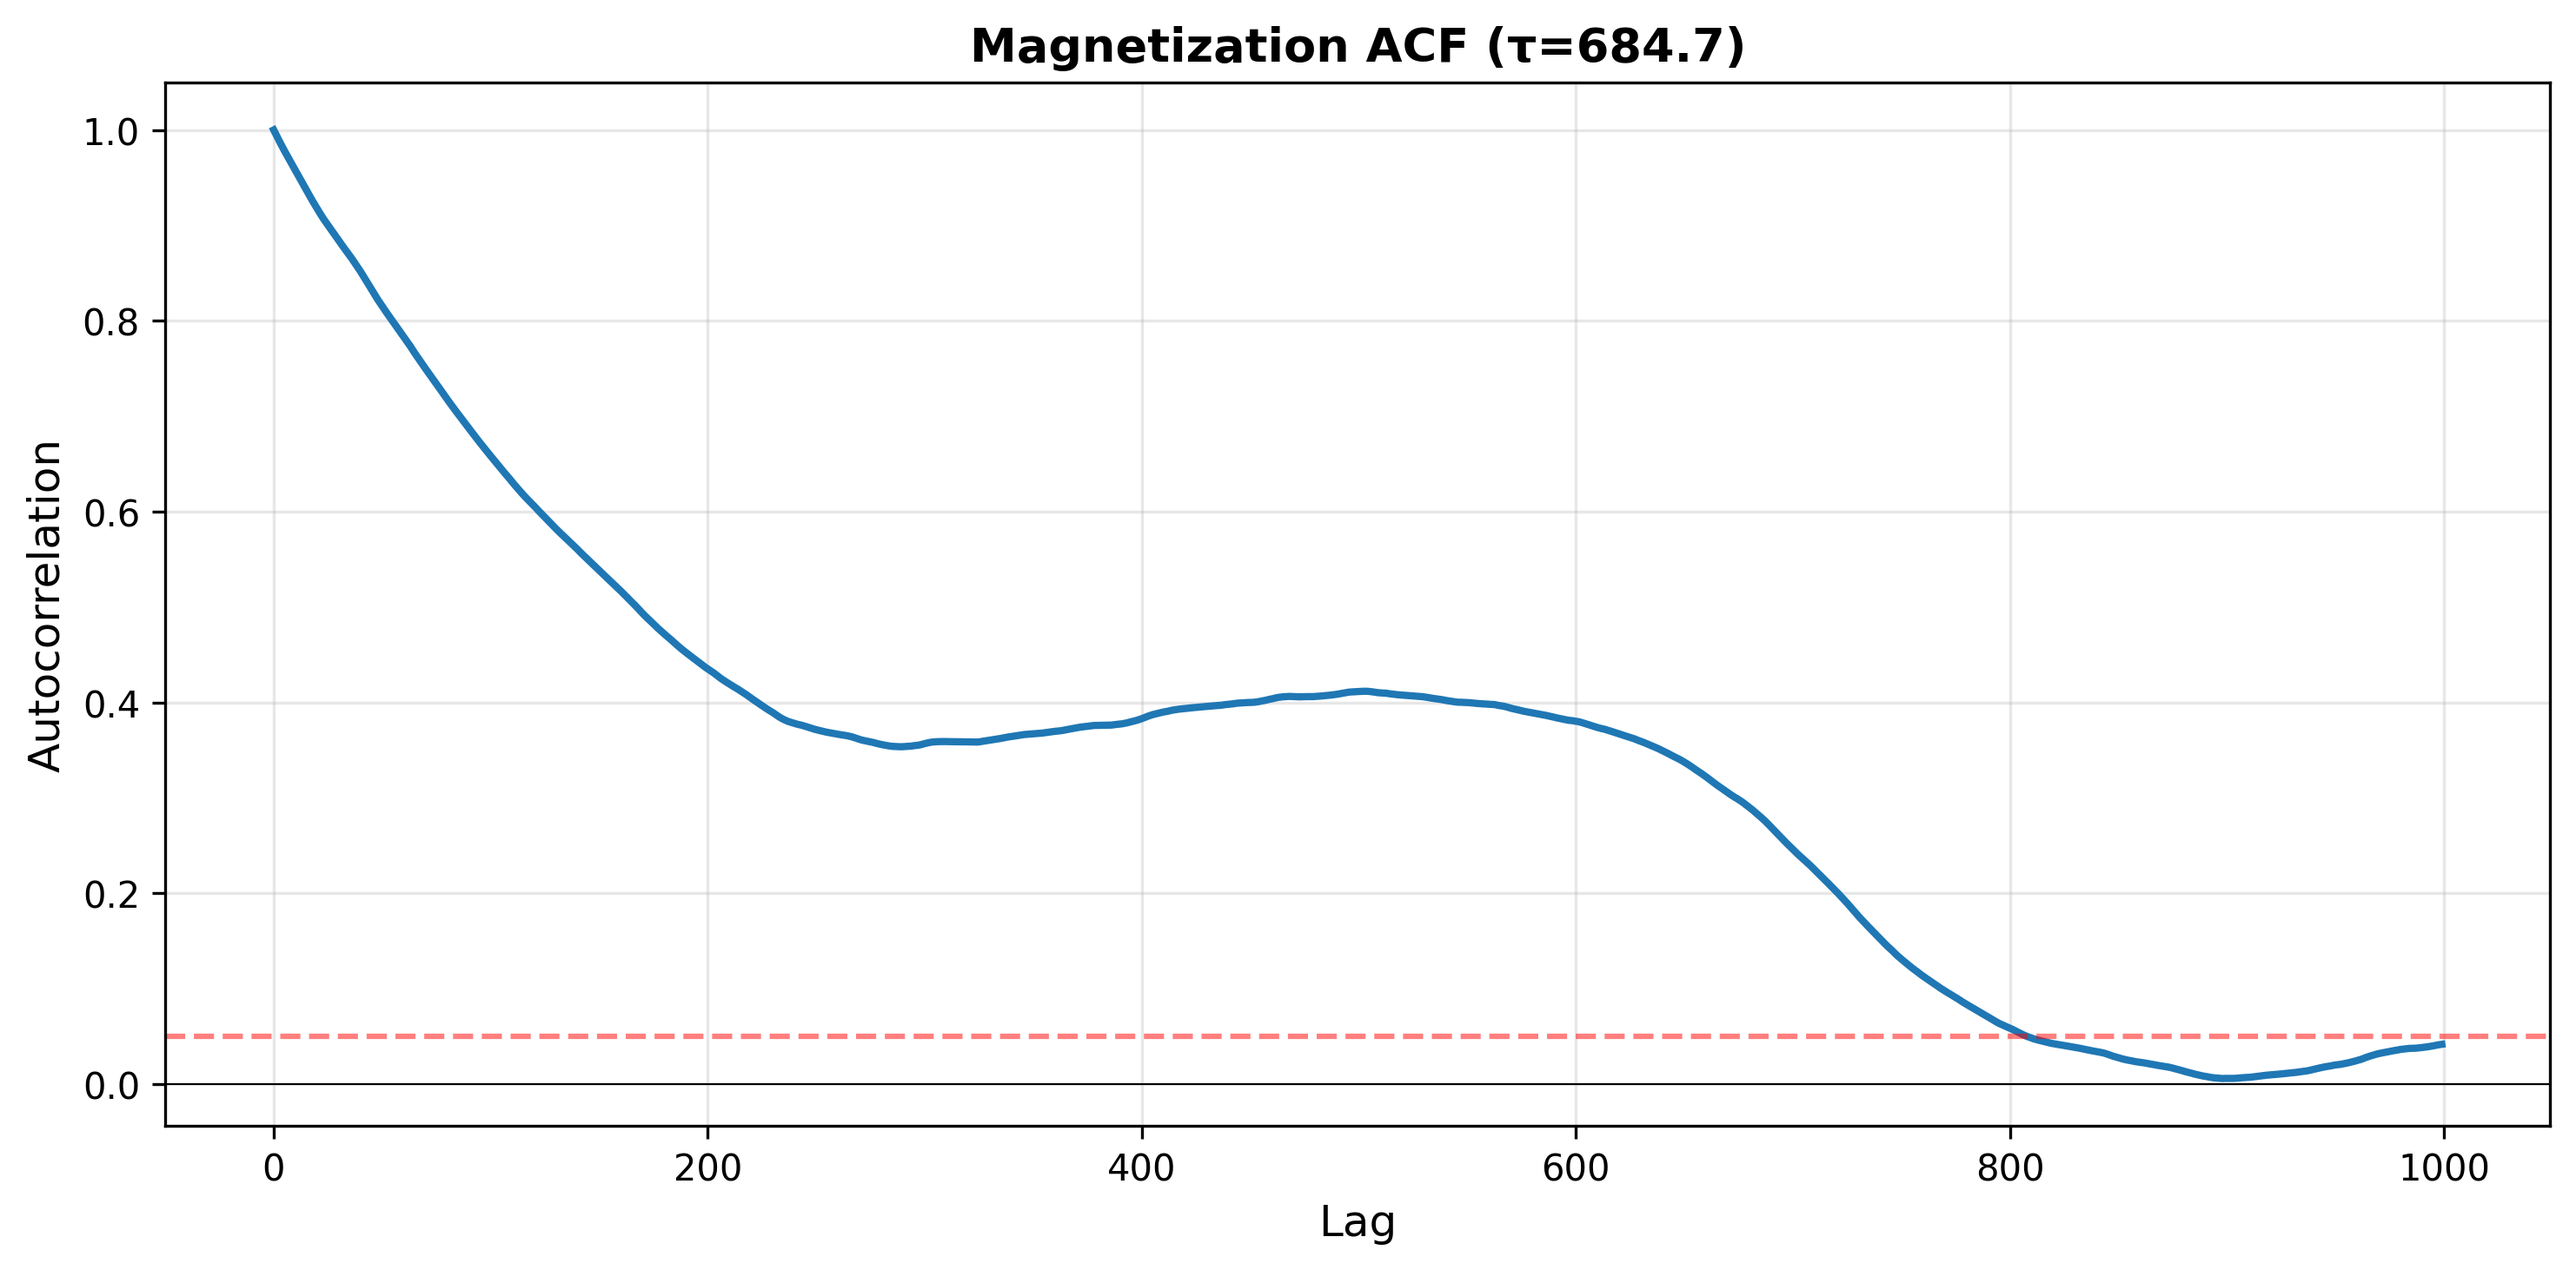
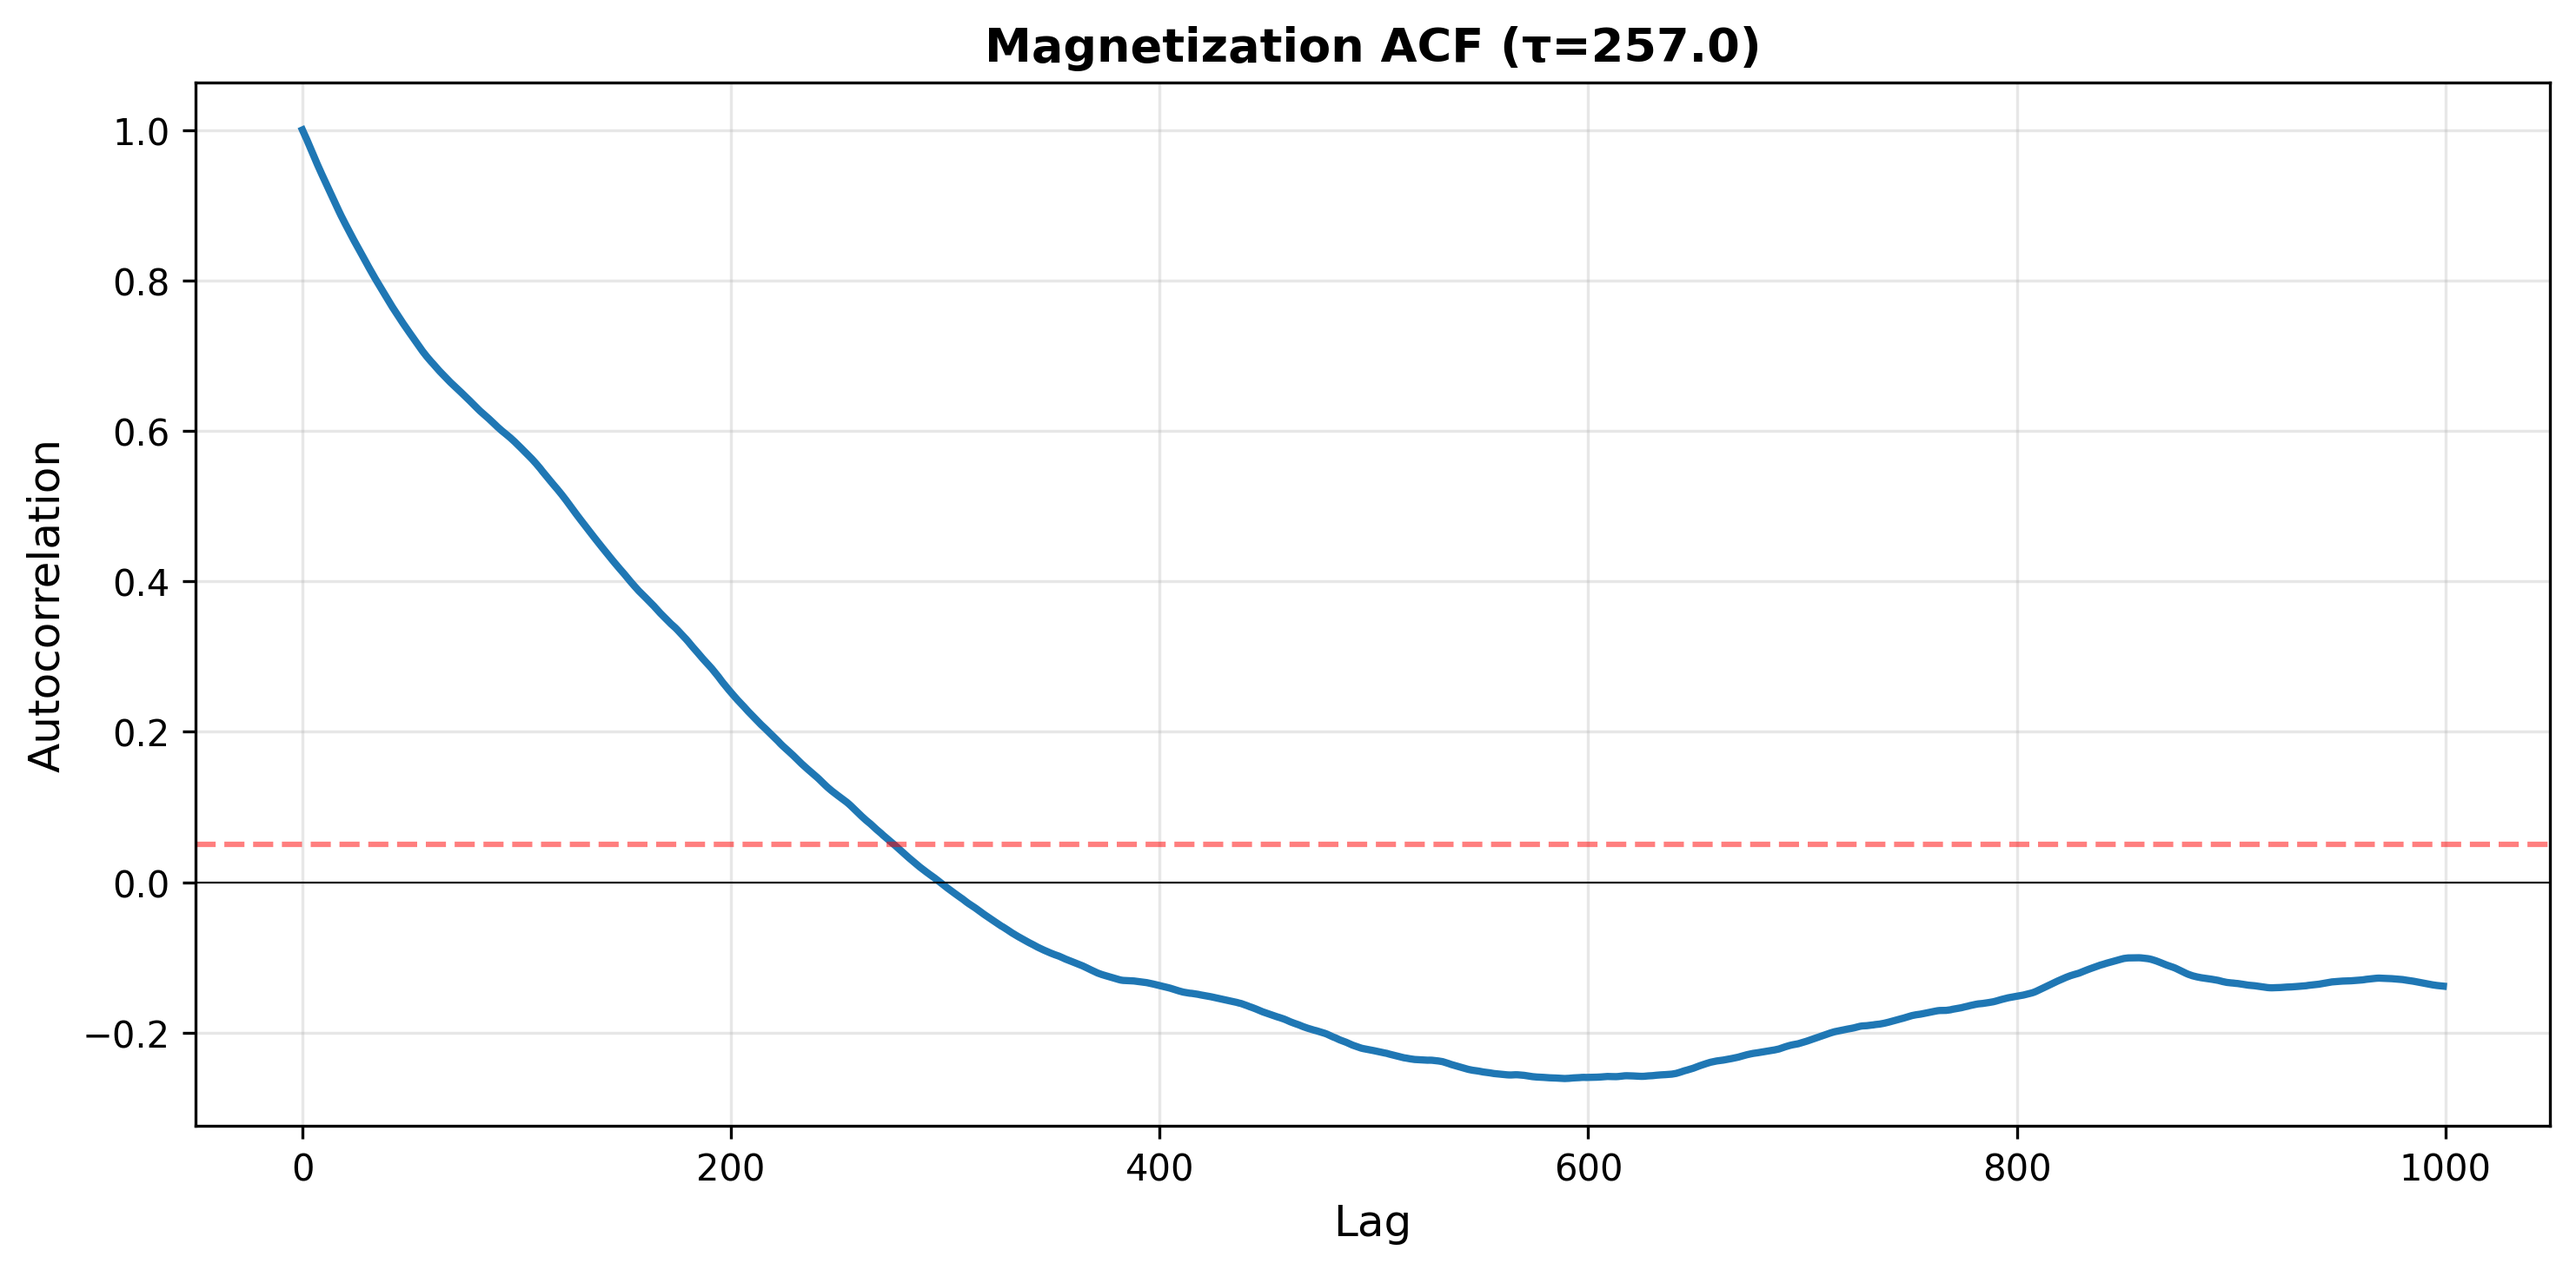
side by side plots for comparison

diff --git a/convergence.py b/convergence.py
@@ -6,6 +6,11 @@ import numpy as np
 import matplotlib.pyplot as plt
 from Ising import *
 
+from external import *
+
+import emcee as emcee_lib
+
+
 def gelman_rubin(chains):
     """
     returns R_hat(Gelman-Rubin statistic)"""
@@ -158,13 +163,23 @@ def spin_up_probability(chains, spin_num = 0):
     plt.ylabel("Net spin over all chains")
     plt.title(f"Spin number {spin_num}")
 
-
 N = 10 
 beta = 0.3
 J = 1.0
 h = 1.0
 iterations = 20000
 burn_frac = 0.3
+
+sampler_emcee = run_emcee(N_walkers=20,
+    N_grid=N,
+    J=J,
+    h=h,
+    beta=beta,
+    seed=200,
+    steps=iterations
+)
+
+
 
 print("Running 4 chains for Gelman-Rubin test...")
 chains_list = []
@@ -184,6 +199,8 @@ for i in range(4):
     mags = np.array([magnetization(g) for g in chain])
     mag_chains.append(mags)
 
+
+
 # Gelman-Rubin test
 mag_chains_array = np.array(mag_chains)
 R_hat = gelman_rubin(mag_chains_array)
@@ -193,9 +210,9 @@ print(f"CONVERGENCE RESULTS")
 print(f"{'='*60}")
 print(f"Gelman-Rubin R-hat: {R_hat:.4f}")
 if R_hat < 1.1:
-    print("✓ CONVERGED (R-hat < 1.1)")
+    print("CONVERGED (R-hat < 1.1)")
 else:
-    print("✗ NOT CONVERGED (R-hat >= 1.1)")
+    print("NOT CONVERGED (R-hat >= 1.1)")
 
 # Autocorrelation analysis
 tau, rho = direct_autocorr(mag_chains[0])
@@ -205,11 +222,55 @@ print(f"\nAutocorrelation time (τ): {tau:.2f}")
 print(f"Effective Sample Size: {ess:.0f} / {len(mag_chains[0])}")
 print(f"{'='*60}\n")
 
+
+chain_emcee = np.sign(sampler_emcee.get_chain())
+n_steps, n_walkers, n_spins = chain_emcee.shape
+
+print(f"Chain shape: {chain_emcee.shape}")
+
+# Extract magnetization for each walker
+mag_chains_emcee = []
+for walker_idx in range(n_walkers):
+    mags = []
+    for step in range(n_steps):
+        grid = list_to_grid(chain_emcee[step, walker_idx, :])
+        mags.append(magnetization(grid))
+    mag_chains_emcee.append(np.array(mags))
+
+mag_chains_emcee = np.array(mag_chains_emcee)
+
+# Gelman-Rubin test for emcee
+R_hat_emcee = gelman_rubin(mag_chains_emcee)
+
+print(f"\nGelman-Rubin R-hat (emcee): {R_hat_emcee:.4f}")
+if R_hat_emcee < 1.1:
+    print("CONVERGED (R-hat < 1.1)")
+else:
+    print("NOT CONVERGED (R-hat >= 1.1)")
+
+# Autocorrelation analysis for emcee (using first walker)
+
+tau_emcee, rho_emcee = direct_autocorr(mag_chains_emcee[0])
+ess_emcee = len(mag_chains_emcee[0]) / tau_emcee
+
+print(f"\nAutocorrelation time (τ): {tau_emcee:.2f}")
+print(f"Effective Sample Size: {ess_emcee:.0f} / {len(mag_chains_emcee[0])}")
+
+# emcee's built-in autocorrelation
+try:
+    tau_emcee_builtin = emcee_lib.autocorr.integrated_time(chain_emcee, quiet=True)
+    print(f"emcee built-in τ (avg): {np.mean(tau_emcee_builtin):.2f}")
+    print(f"emcee built-in τ (range): [{np.min(tau_emcee_builtin):.2f}, {np.max(tau_emcee_builtin):.2f}]")
+except Exception as e:
+    print(f"emcee built-in autocorr failed: {e}")
+
+"""
 # Plot traces
 chains_dict = {'Magnetization': mag_chains}
 fig = plot_trace(chains_dict, burn_in=int(iterations*burn_frac))
 plt.savefig('convergence_traces.png', dpi=300, bbox_inches='tight')
 print("Saved: convergence_traces.png")
+
 
 # Plot ACF
 plt.figure(figsize=(10, 5))
@@ -224,5 +285,72 @@ plt.grid(True, alpha=0.3)
 plt.tight_layout()
 plt.savefig('acf_plot.png', dpi=300, bbox_inches='tight')
 print("Saved: acf_plot.png")
+"""
+print("\nCreating comparison plots")
+
+# side-by-side trace plots
+fig, axes = plt.subplots(1, 2, figsize=(14, 5))
+
+# metropolis traces
+ax = axes[0]
+for i in range(4):
+    ax.plot(mag_chains[i], alpha=0.6, linewidth=0.8, label=f'Chain {i+1}')
+ax.axvline(int(iterations*burn_frac), color='red', linestyle='--', 
+           linewidth=2, label='Burn-in')
+ax.set_xlabel('Iteration', fontsize=12)
+ax.set_ylabel('Magnetization per spin', fontsize=12)
+ax.set_title('Metropolis (Hand-written)', fontsize=13, fontweight='bold')
+ax.legend(fontsize=9)
+ax.grid(True, alpha=0.3)
+
+# emcee traces
+ax = axes[1]
+for i in range(4):  # Show first 4 walkers
+    ax.plot(mag_chains_emcee[i], alpha=0.6, linewidth=0.8, label=f'Walker {i+1}')
+ax.axvline(int(iterations*burn_frac), color='red', linestyle='--', 
+           linewidth=2, label='Burn-in')
+ax.set_xlabel('Iteration', fontsize=12)
+ax.set_ylabel('Magnetization per spin', fontsize=12)
+ax.set_title('emcee', fontsize=13, fontweight='bold')
+ax.legend(fontsize=9)
+ax.grid(True, alpha=0.3)
+
+plt.tight_layout()
+plt.savefig('trace_comparison.png', dpi=300, bbox_inches='tight')
+print("Saved: trace_comparison.png")
+
+# 2. side-by-side ACF plots
+fig, axes = plt.subplots(1, 2, figsize=(14, 5))
+
+# metropolis ACF
+ax = axes[0]
+lags = np.arange(len(rho))
+ax.plot(lags, rho, linewidth=2, color='blue')
+ax.axhline(0, color='black', linestyle='-', linewidth=0.5)
+ax.axhline(0.05, color='red', linestyle='--', alpha=0.3)
+ax.axhline(-0.05, color='red', linestyle='--', alpha=0.3)
+ax.set_xlabel('Lag', fontsize=12)
+ax.set_ylabel('Autocorrelation', fontsize=12)
+ax.set_title(f'Metropolis ACF (τ={tau:.1f})', fontsize=13, fontweight='bold')
+ax.grid(True, alpha=0.3)
+ax.set_ylim([-0.2, 1.1])
+
+# emcee ACF
+ax = axes[1]
+lags_emcee = np.arange(len(rho_emcee))
+ax.plot(lags_emcee, rho_emcee, linewidth=2, color='orange')
+ax.axhline(0, color='black', linestyle='-', linewidth=0.5)
+ax.axhline(0.05, color='red', linestyle='--', alpha=0.3)
+ax.axhline(-0.05, color='red', linestyle='--', alpha=0.3)
+ax.set_xlabel('Lag', fontsize=12)
+ax.set_ylabel('Autocorrelation', fontsize=12)
+ax.set_title(f'emcee ACF (τ={tau_emcee:.1f})', fontsize=13, fontweight='bold')
+ax.grid(True, alpha=0.3)
+ax.set_ylim([-0.2, 1.1])
+
+plt.tight_layout()
+plt.savefig('acf_comparison.png', dpi=300, bbox_inches='tight')
+print("Saved: acf_comparison.png")
+
 
 plt.show()
